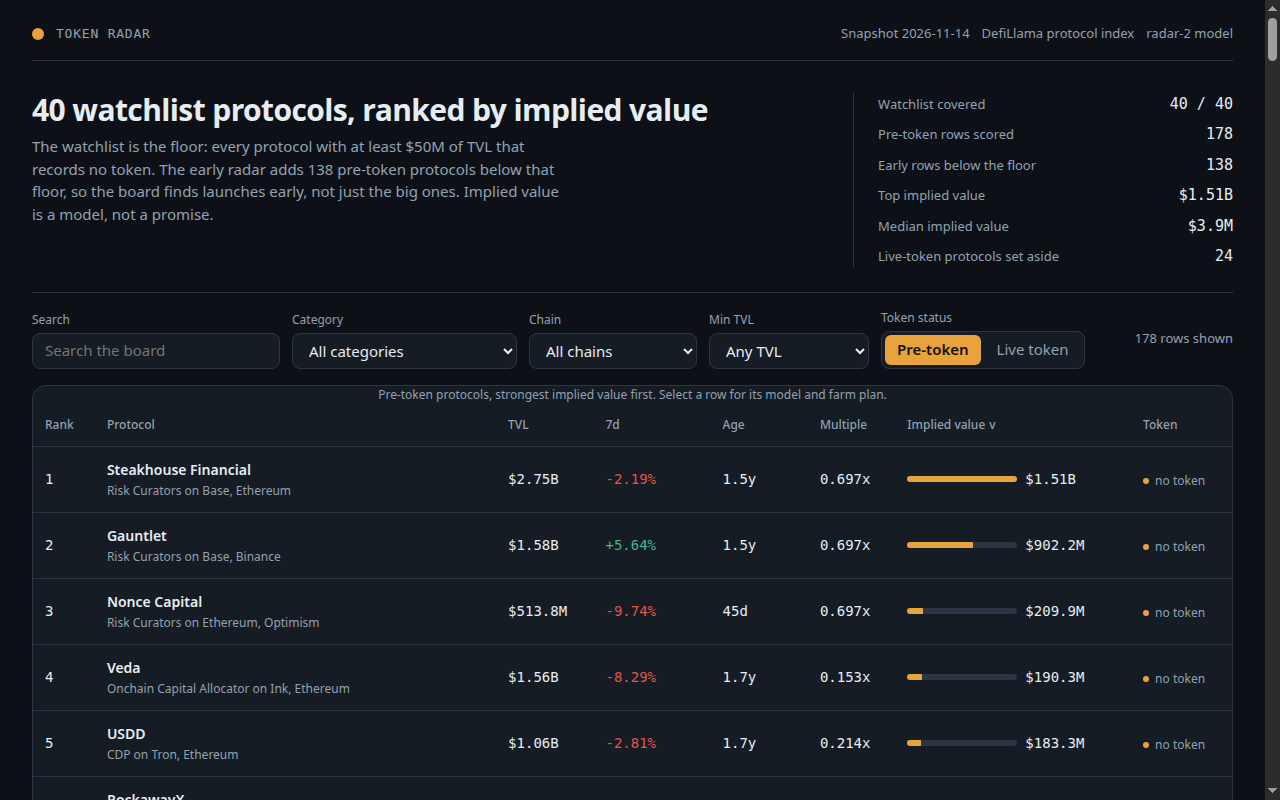
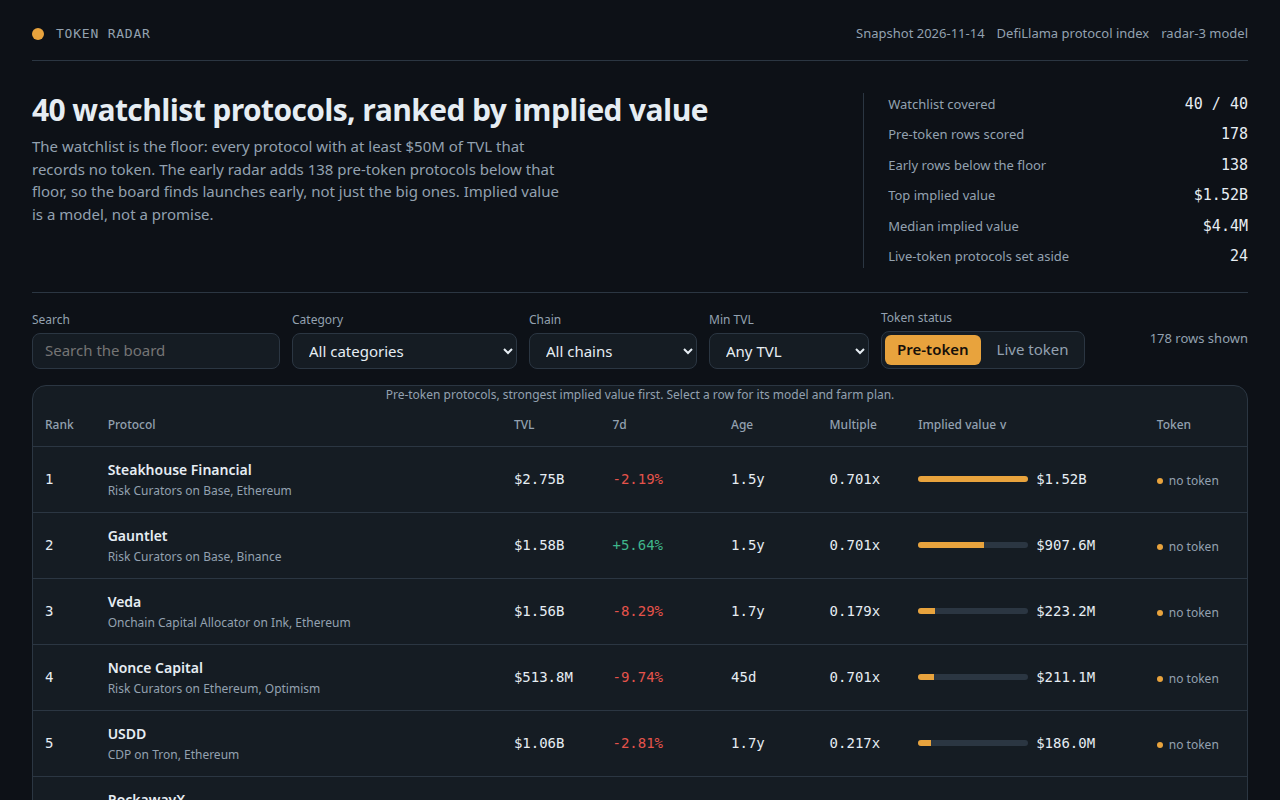
Model radar-3: global median computed at runtime from positive-mcap live protocols
- globalMedian() computes the median mcap/TVL across live-token non-CEX
  protocols with a positive market cap (0.246 on this snapshot); the
  MODEL constant is now only the fallback for a snapshot with none
- category multiples exclude market caps of zero or less (this snapshot
  carries one at -1): dead records no longer drag a category's multiple
  down (Onchain Capital Allocator's multiple recovers; Veda rises to #3)
- dashboard method text states the positive-market-cap definition
- screenshots re-taken from the rebuilt dashboard (1280x800)

diff --git a/lib/model.ts b/lib/model.ts
@@ -10,18 +10,25 @@
 //
 // Implied value is one function of the snapshot's own figures, the same for every row:
 //
-//   multiple[cat] = median mcap/TVL of live-token (non-CEX) protocols in that category,
-//                   shrunk toward the global median with 5 pseudo-observations,
-//                   capped at 1.0x TVL; a category with no live comparable uses the
-//                   global median outright.
+//   multiple[cat] = median mcap/TVL of live-token (non-CEX, positive market cap)
+//                   protocols in that category, shrunk toward the global median
+//                   with 5 pseudo-observations, capped at 1.0x TVL; a category with
+//                   no live comparable uses the global median outright.
+//   global median = the median mcap/TVL across all live-token (non-CEX, positive
+//                   market cap) protocols, computed from the snapshot at runtime —
+//                   a market cap of zero or less is a dead or erroneous record
+//                   (this snapshot carries one at -1), never a comparable. The
+//                   constant in MODEL below is only the fallback for a snapshot
+//                   with no such protocol.
 //   growth     = clamp(change_7d, -60, 120), or 0 when unreported
 //   growthMult = 1 + growth / 100 * 0.5
 //   maturity   = 0.6 + min(age_days, 1095) / 1095 * 0.4   (age unknown: 365 days)
 //   implied    = max(1, round(tvl_usd * multiple[cat] * growthMult * maturity))
 //
-// No protocol name is ever special-cased. The category multiples are computed from the snapshot
-// at runtime — a new snapshot re-prices every row — and the dashboard shows each multiple with
-// the count of live comparables behind it, so a multiple resting on one protocol reads as such.
+// No protocol name is ever special-cased. The category multiples and the global median are
+// computed from the snapshot at runtime — a new snapshot re-prices every row — and the
+// dashboard shows each multiple with the count of live comparables behind it, so a multiple
+// resting on one protocol reads as such.
 
 /** One protocol record: exactly the ten fields the sealed snapshot carries. */
 export interface SnapshotProtocol {
@@ -48,7 +55,9 @@ export interface Snapshot {
 
 /** The model's constants, stated in the dashboard and changeable in its sandbox. */
 export interface ModelConstants {
-  /** The live-token market's median mcap/TVL, the shrinkage target and the fallback multiple. */
+  /** Fallback for the live-token market's median mcap/TVL, used only when the snapshot
+   *  carries no live-token protocol with a positive market cap; the run's value is
+   *  computed from the snapshot (see globalMedian). */
   global_median: number;
   /** Pseudo-observations pulling a thin category's median toward the global median. */
   shrink_observations: number;
@@ -77,7 +86,7 @@ export const MODEL: ModelConstants = {
 };
 
 /** The model's version label, shown by the dashboard. */
-export const MODEL_VERSION = 'radar-2';
+export const MODEL_VERSION = 'radar-3';
 
 /** How many live-token protocols the dashboard's Live token view carries, by market cap. */
 export const LIVE_ROWS = 24;
@@ -203,14 +212,31 @@ export function ageDays(asOf: string, listedAt: string | null): number | null {
 }
 
 /**
+ * The live-token market's median mcap/TVL, computed from the snapshot at runtime: the
+ * median ratio across protocols that record a positive market cap and are not a
+ * centralised exchange. A market cap of zero or less is a dead or erroneous record
+ * (this snapshot carries one at -1), never a comparable. Falls back to the model's
+ * constant when the snapshot carries no such protocol.
+ */
+export function globalMedian(snapshot: Snapshot, model: ModelConstants = MODEL): number {
+  const ratios: number[] = [];
+  for (const p of snapshot.protocols) {
+    if (p.mcap_usd === null || p.mcap_usd <= 0 || p.tvl_usd <= 0 || p.category === 'CEX') continue;
+    ratios.push(p.mcap_usd / p.tvl_usd);
+  }
+  return median(ratios) ?? model.global_median;
+}
+
+/**
  * Every category's multiple, computed from the snapshot's live-token protocols at runtime.
- * A live protocol is one that records a market cap and is not a centralised exchange. The
- * shrinkage keeps a category with one or two comparables from inheriting a wild ratio whole.
+ * A live protocol is one that records a positive market cap and is not a centralised
+ * exchange. The shrinkage keeps a category with one or two comparables from inheriting
+ * a wild ratio whole.
  */
 export function categoryMultiples(snapshot: Snapshot, model: ModelConstants = MODEL): CategoryMultiple[] {
   const ratios = new Map<string, number[]>();
   for (const p of snapshot.protocols) {
-    if (p.mcap_usd === null || p.tvl_usd <= 0 || p.category === 'CEX') continue;
+    if (p.mcap_usd === null || p.mcap_usd <= 0 || p.tvl_usd <= 0 || p.category === 'CEX') continue;
     const list = ratios.get(p.category) ?? [];
     list.push(p.mcap_usd / p.tvl_usd);
     ratios.set(p.category, list);
@@ -285,7 +311,8 @@ function bySlug(protocols: SnapshotProtocol[]): Map<string, SnapshotProtocol> {
 
 /** The protocols the board ranks, strongest first, with ranks 1..n. */
 export function buildBoard(snapshot: Snapshot, model: ModelConstants = MODEL): BoardRow[] {
-  const multiples = categoryMultiples(snapshot, model);
+  const effective: ModelConstants = { ...model, global_median: globalMedian(snapshot, model) };
+  const multiples = categoryMultiples(snapshot, effective);
   const index = bySlug(snapshot.protocols);
   const chosen = new Map<string, SnapshotProtocol>();
   // The watchlist is the floor: every slug on it is ranked, whatever its size.
@@ -302,7 +329,7 @@ export function buildBoard(snapshot: Snapshot, model: ModelConstants = MODEL): B
   for (const p of early) chosen.set(p.slug, p);
 
   const scored = [...chosen.values()].map((p) => {
-    const v = impliedValue(p, snapshot.as_of, multiples, model);
+    const v = impliedValue(p, snapshot.as_of, multiples, effective);
     return { p, ...v };
   });
   scored.sort((a, b) => b.implied - a.implied || (a.p.slug < b.p.slug ? -1 : a.p.slug > b.p.slug ? 1 : 0));
@@ -466,15 +493,16 @@ export function radarRow(row: BoardRow): RadarRow {
 
 /** Everything the dashboard renders, from the snapshot. */
 export function buildRadar(snapshot: Snapshot, model: ModelConstants = MODEL): { board: BoardRow[]; radar: RadarData } {
-  const board = buildBoard(snapshot, model);
+  const effective: ModelConstants = { ...model, global_median: globalMedian(snapshot, model) };
+  const board = buildBoard(snapshot, effective);
   const live = liveRows(snapshot);
-  const multiples = categoryMultiples(snapshot, model);
+  const multiples = categoryMultiples(snapshot, effective);
   const early = board.filter((r) => !snapshot.watchlist.includes(r.slug)).length;
   const radar: RadarData = {
     as_of: snapshot.as_of,
     source: snapshot.source,
     floor_usd: snapshot.floor_usd,
-    model,
+    model: effective,
     model_version: MODEL_VERSION,
     watchlist_size: snapshot.watchlist.length,
     board_size: board.length,

diff --git a/dashboard/app.js b/dashboard/app.js
@@ -391,7 +391,7 @@
       el('div', { class: 'formula' },
         'implied = round( tvl_usd x multiple[category] x (1 + clamp(change_7d, ' + m.growth_floor + ', ' + m.growth_cap + ') / 100 x ' + m.growth_weight + ') x (' + m.maturity_floor + ' + min(age_days, ' + m.maturity_days + ') / ' + m.maturity_days + ' x ' + m.maturity_range + ') )'
       ),
-      el('p', { class: 'sub', text: 'The category multiple is the median mcap/TVL of the live-token protocols in that category (never a centralised exchange), shrunk toward the global median of ' + m.global_median + ' with ' + m.shrink_observations + ' pseudo-observations and capped at ' + m.multiple_cap + 'x TVL. A category with no live comparable uses the global median. Age is the time since the protocol was first listed, the best record of how long it has run with no token; an unlisted age uses ' + m.unknown_age_days + ' days.' }),
+      el('p', { class: 'sub', text: 'The category multiple is the median mcap/TVL of the live-token protocols in that category with a positive market cap (never a centralised exchange), shrunk toward the global median of ' + m.global_median + ' with ' + m.shrink_observations + ' pseudo-observations and capped at ' + m.multiple_cap + 'x TVL. A category with no live comparable uses the global median. Age is the time since the protocol was first listed, the best record of how long it has run with no token; an unlisted age uses ' + m.unknown_age_days + ' days.' }),
       el('h3', { text: 'Category multiples, with their evidence' }),
       el('div', { class: 'mult-wrap' },
         el('table', null,
